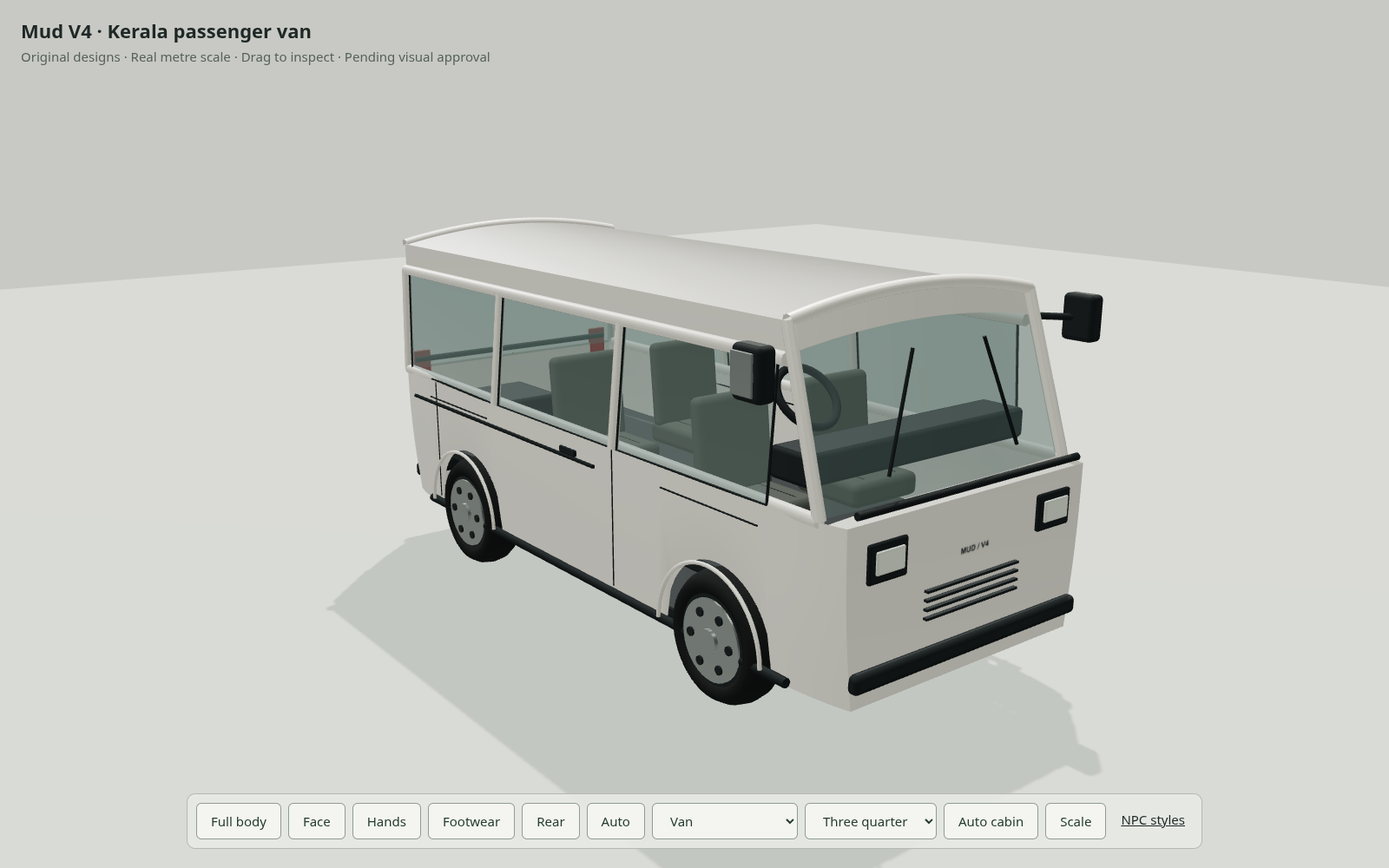
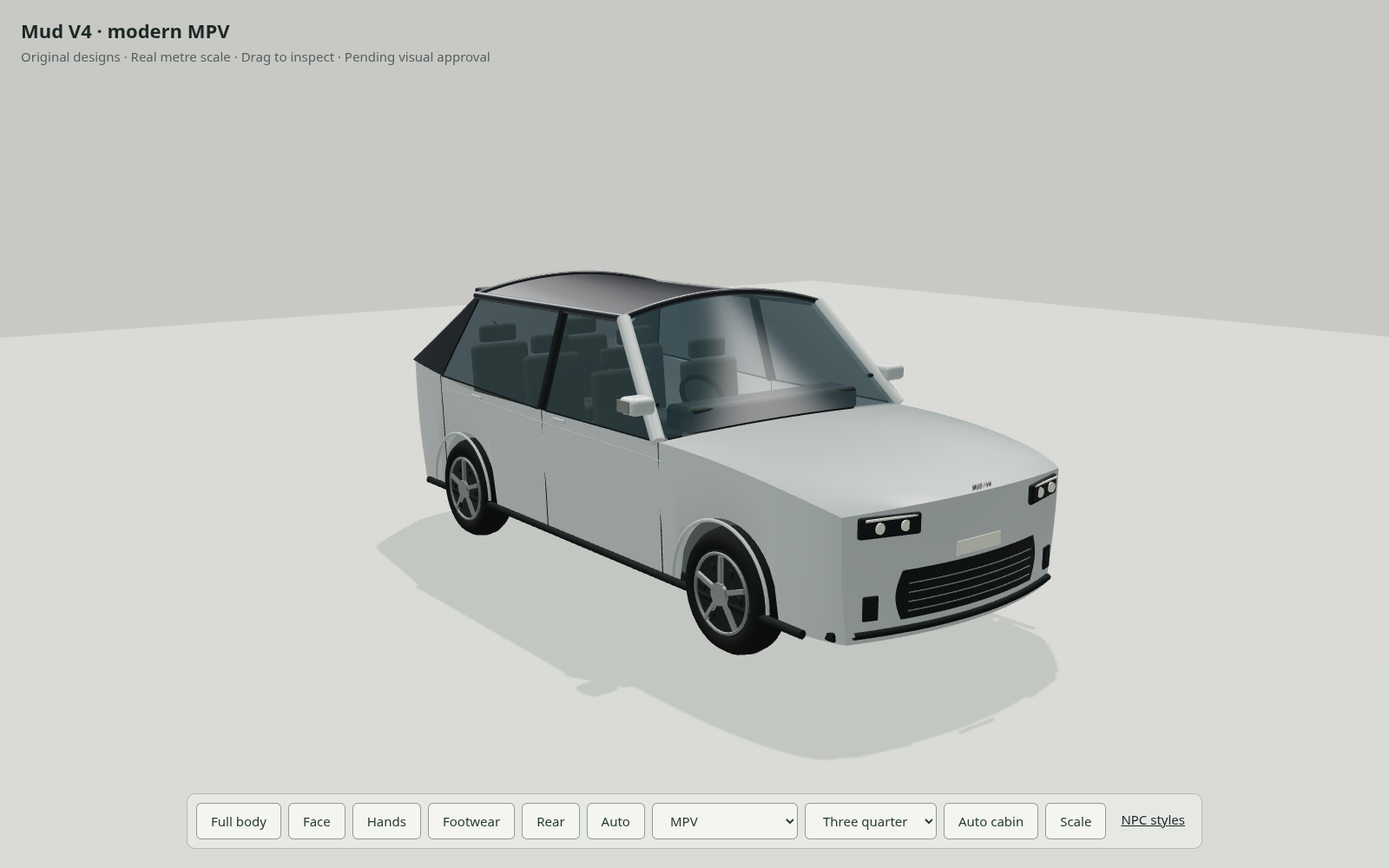
Revise fleet prototypes with modern bodies lighting glazing and wheels

Changed region(s): [[0.2812, 0.248, 0.8125, 0.837], [0.0625, 0.031, 0.2188, 0.062], [0.4688, 0.93, 0.5, 0.961]]

diff --git a/src/prototypes/vehicles.js b/src/prototypes/vehicles.js
@@ -5,10 +5,10 @@ import {RoundedBoxGeometry} from 'three/addons/geometries/RoundedBoxGeometry.js'
 function kit(name,color){
  const root=new THREE.Group();root.name=name;
  const paint=new THREE.MeshPhysicalMaterial({color,roughness:.38,metalness:.22,clearcoat:.35,side:THREE.DoubleSide});paint.userData.surface='paint';
- const trim=new THREE.MeshStandardMaterial({color:'#252c2c',roughness:.72,metalness:.15});
+ const trim=new THREE.MeshStandardMaterial({color:'#252c2c',roughness:.72,metalness:.15,side:THREE.DoubleSide});
  const rubber=new THREE.MeshStandardMaterial({color:'#202322',roughness:.94});
  const alloy=new THREE.MeshStandardMaterial({color:'#9ba29c',roughness:.28,metalness:.85});
- const glass=new THREE.MeshPhysicalMaterial({color:'#718982',roughness:.07,metalness:0,transparent:true,opacity:.43,depthWrite:false,side:THREE.DoubleSide,envMapIntensity:1.3});
+ const glass=new THREE.MeshPhysicalMaterial({color:'#30474e',roughness:.10,metalness:0,transparent:true,opacity:.64,depthWrite:false,side:THREE.DoubleSide,envMapIntensity:1.3});
  const seat=new THREE.MeshStandardMaterial({color:'#535750',roughness:.93});seat.userData.surface='cloth';
  const red=new THREE.MeshPhysicalMaterial({color:'#9b3028',roughness:.23,clearcoat:.6});
  const lamp=new THREE.MeshPhysicalMaterial({color:'#d3dacb',roughness:.18,metalness:.25,clearcoat:.6});
@@ -25,7 +25,8 @@ function kit(name,color){
   add(tyre,rubber,[0,0,0],[0,Math.PI/2,0],axle);
   add(new THREE.CylinderGeometry(r*.68,r*.68,width,40),trim,[0,0,0],[0,0,Math.PI/2],axle);
   for(const side of[-1,1]){
-   add(new THREE.CylinderGeometry(r*.62,r*.62,.012,40),alloy,[side*(width/2+.004),0,0],[0,0,Math.PI/2],axle);
+   if(r>.4)add(new THREE.CylinderGeometry(r*.62,r*.62,.012,40),alloy,[side*(width/2+.004),0,0],[0,0,Math.PI/2],axle);
+   else{add(new THREE.TorusGeometry(r*.62,.009,8,40),alloy,[side*(width/2+.008),0,0],[0,Math.PI/2,0],axle);for(let i=0;i<5;i++){const a=i*Math.PI*2/5;box(.022,r*.47,.027,.004,alloy,[side*(width/2+.010),Math.cos(a)*r*.36,Math.sin(a)*r*.36],[a,0,0],axle);}}
    add(new THREE.TorusGeometry(r*.84,.006,6,48),rubber,[side*width*.48,0,0],[0,Math.PI/2,0],axle);
    for(let i=0;i<6;i++){const a=i*Math.PI/3;add(new THREE.CylinderGeometry(r*.07,r*.07,.015,12),trim,[side*(width/2+.013),Math.sin(a)*r*.43,Math.cos(a)*r*.43],[0,0,Math.PI/2],axle);}
    add(new THREE.CylinderGeometry(r*.18,r*.18,.02,24),alloy,[side*(width/2+.018),0,0],[0,0,Math.PI/2],axle);
@@ -39,16 +40,16 @@ function kit(name,color){
 
 function fourWheeler(type){
  const bus=type==='bus',van=type==='van';
- const k=kit(bus?'Mud M9 · local bus':van?'Mud V4 · Kerala passenger van':'Mud C4 · Kerala hatchback',bus?'#d8cfac':van?'#e4e2d6':'#b4c5cb');
+ const k=kit(bus?'Mud M9 · modern city bus':van?'Mud V4 · modern MPV':'Mud C4 · modern hatchback',bus?'#e5e9e6':van?'#b8c2c0':'#37799b');
  const {root,paint,trim,rubber,alloy,glass,seat,red,lamp,box,tube,surface,pane,wheel,cushion,badge}=k;
- const length=bus?9.70:van?3.78:3.65,width=bus?2.5:van?1.60:1.62,height=bus?3.1:van?1.87:1.54;
- const half=length/2,r=bus?.48:van?.31:.29,axles=bus?[-2.98,2.62]:van?[-1.12,1.12]:[-1.16,1.15],waist=bus?1.68:van?1.04:.91,base=bus?.49:.265;
- const bodyWidth=z=>width/2*(bus?1-.035*(Math.abs(z)/half)**8:van?1-.08*(Math.abs(z)/half)**8:1-(z<0?.12:.06)*(Math.abs(z)/half)**6);
- const deckHeight=z=>bus||van?waist:z<-.85?waist-.15*((-.85-z)/(half-.85))**2:z>1.20?waist+.10*(z-1.20)/(half-1.20):waist;
- const busSkirt=new THREE.MeshPhysicalMaterial({color:'#85382f',roughness:.5,metalness:.12,side:THREE.DoubleSide});
+ const length=bus?9.70:van?4.45:3.85,width=bus?2.5:van?1.80:1.72,height=bus?3.1:van?1.72:1.54;
+ const half=length/2,r=bus?.48:van?.33:.31,axles=bus?[-2.98,2.62]:van?[-1.35,1.35]:[-1.21,1.20],waist=bus?1.68:van?1.06:1.00,base=bus?.49:.265;
+ const bodyWidth=z=>width/2*(bus?1-.035*(Math.abs(z)/half)**8:1-(z<0?.12:.06)*(Math.abs(z)/half)**6);
+ const deckHeight=z=>bus?waist:z<-.85?waist-.15*((-.85-z)/(half-.85))**2:z>1.20?waist+.10*(z-1.20)/(half-1.20):waist;
+ const busSkirt=new THREE.MeshPhysicalMaterial({color:'#277675',roughness:.5,metalness:.12,side:THREE.DoubleSide});
  function archLow(z){let low=base;for(const axle of axles){const d=z-axle,clearance=r+.045;if(Math.abs(d)<clearance)low=Math.max(low,r+.015+Math.sqrt(clearance**2-d*d));}return low;}
  for(const side of[-1,1]){
-  const sidePoint=(u,v)=>{const z=-half+u*length,low=archLow(z);return[side*(bodyWidth(z)-.05*(1-v)+.014*Math.sin(v*Math.PI)),low+(deckHeight(z)-(!bus&&!van?.025:0)-low)*v,z];};
+  const sidePoint=(u,v)=>{const z=-half+u*length,low=archLow(z);return[side*(bodyWidth(z)-.05*(1-v)+.014*Math.sin(v*Math.PI)),low+(deckHeight(z)-(!bus?.025:0)-low)*v,z-(bus?0:Math.sign(z)*.13*(Math.abs(z)/half)**8)];};
   const hasSide=u=>!(bus&&side===-1&&(-half+u*length)>-4.45&&(-half+u*length)<-3.65);
   surface(12,bus?240:120,sidePoint,paint,(u,v)=>hasSide(u)&&(!bus||v>=.4));
   if(bus)surface(12,240,sidePoint,busSkirt,(u,v)=>hasSide(u)&&v<.4);
@@ -57,43 +58,64 @@ function fourWheeler(type){
  }
  // Formed bumper faces close only the lower body, leaving the windows genuinely open.
  for(const end of[-1,1]){
-  const endPoint=(u,v)=>{const t=u*2-1;return[t*(bodyWidth(half)-.05*(1-v)+.014*Math.sin(v*Math.PI)),base+v*(deckHeight(end*half)-(!bus&&!van?.025*t*t:0)-base),end*half];};
+  const endPoint=(u,v)=>{const t=u*2-1;return[t*(bodyWidth(end*half)-.05*(1-v)+.014*Math.sin(v*Math.PI)),base+v*(deckHeight(end*half)-(!bus?.025*t*t:0)-base),end*(half-(bus?0:.13*t*t))];};
   surface(12,40,endPoint,paint,(_,v)=>!bus||v>=.4);
   if(bus)surface(12,40,endPoint,busSkirt,(_,v)=>v<.4);
-  box(width*.88,.085,.06,.025,trim,[0,base+.12,end*(half+.014)]);
+  if(bus)box(width*.88,.085,.06,.025,trim,[0,base+.12,end*(half+.014)]);
  }
  box(width*.87,.05,length-.35,.012,trim,[0,base+.03,0]);
- if(!bus&&!van){
-  // Short bonnet and an upright tailgate: a small Kerala-road hatchback, not a sedan.
-  surface(20,40,(u,v)=>{const z=-half+v*(half-.85),t=u*2-1;return[t*bodyWidth(z),deckHeight(z)-.025*t*t,z];},paint);
-  const roofPoint=(u,v)=>{const t=u*2-1;return[t*.665,1.44+.10*(1-t*t)-.012*Math.sin(v*Math.PI),-.30+v*1.43];};
-  surface(24,40,roofPoint,paint);
-  surface(20,40,(u,v)=>{const t=u*2-1;return[t*(bodyWidth(-.85)*(1-v)+.665*v),.92+v*(.62-.10*t*t)-.025*(1-v)*t*t,-.85+v*.55];},glass);
-  surface(22,40,(u,v)=>{const t=u*2-1;return[t*(.665*(1-v)+bodyWidth(half)*v),1.44+.10*(1-t*t)-v*(.43+.10*(1-t*t)+.025*t*t),1.13+v*(half-1.13)];},glass);
-  for(const v of[0,1])tube(Array.from({length:25},(_,i)=>roofPoint(i/24,v)),.022,paint);
+ if(!bus){
+  // A shared rounded body construction for the hatchback and taller three-row MPV.
+  const roofEdge=height-.10,roofHalf=width*.405,roofRear=van?1.38:1.13,quarterBottom=van?1.60:1.32;
+  const darkRoof=new THREE.MeshPhysicalMaterial({color:'#202a30',roughness:.35,metalness:.25,clearcoat:.4,side:THREE.DoubleSide});
+  const faceZ=(x,y,end)=>{const v=THREE.MathUtils.clamp((y-base)/(deckHeight(end*half)-base),0,1),w=bodyWidth(end*half)-.05*(1-v)+.014*Math.sin(v*Math.PI);return end*(half-.13*(x/w)**2);};
+  const noseZ=(x,y=waist-.235)=>faceZ(x,y,-1);
+  surface(20,40,(u,v)=>{const z=-half+v*(half-.85),t=u*2-1;return[t*bodyWidth(z),deckHeight(z)-.025*t*t+.035*t*t*(1-t*t)*Math.sin(v*Math.PI),z+ .13*t*t*(Math.abs(z)/half)**8];},paint);
+  const roofPoint=(u,v)=>{const t=u*2-1;return[t*roofHalf,roofEdge+.10*(1-t*t)-.012*Math.sin(v*Math.PI),-.30+v*(roofRear+.30)];};
+  surface(24,40,roofPoint,darkRoof);
+  surface(20,40,(u,v)=>{const t=u*2-1;return[t*(bodyWidth(-.85)*(1-v)+roofHalf*v),waist+.01+v*(height-waist-.01-.10*t*t)-.025*(1-v)*t*t,-.85+v*.55];},glass);
+  surface(22,40,(u,v)=>{const t=u*2-1;return[t*(roofHalf*(1-v)+bodyWidth(half)*v),roofEdge+.10*(1-t*t)-v*(roofEdge-deckHeight(half)+.10*(1-t*t)+.025*t*t),roofRear+v*(half-.13*t*t-roofRear)];},glass);
+  for(const v of[0,1])tube(Array.from({length:25},(_,i)=>roofPoint(i/24,v)),.022,darkRoof);
   for(const side of[-1,1]){
-   const lower=z=>[side*bodyWidth(z),deckHeight(z)-.023,z],upper=z=>[side*.665,1.438,z];
+   const lower=z=>[side*bodyWidth(z),deckHeight(z)-.023,z],upper=z=>[side*roofHalf,roofEdge-.002,z];
    pane([lower(-.83),lower(.27),upper(.27),upper(-.295)]);
-   pane([lower(.35),lower(1.32),upper(1.08),upper(.35)]);
-   tube([lower(-.85),upper(-.30)],.031,paint);tube([lower(.31),upper(.31)],.030,trim);
-   tube([upper(-.30),upper(1.13)],.026,paint);
-   surface(20,8,(u,v)=>{const z=(1-v)*(1.08+.05*u)+v*(1.32+(half-1.32)*u);return[side*(.665*(1-v)+bodyWidth(z)*v),1.438*(1-v)+(deckHeight(z)-.023)*v,z];},paint);
-   for(const z of[-.85,.31,1.34])tube([[side*(bodyWidth(z)+.001),deckHeight(z)-.025,z],[side*(bodyWidth(z)-.025),.32,z]],.0025,trim);
-   for(const z of[.10,1.09])box(.020,.029,.11,.009,trim,[side*(bodyWidth(z)+.012),.83,z]);
-   tube([[side*.79,1.04,-.70],[side*.91,1.04,-.70]],.014,trim);box(.15,.095,.15,.032,paint,[side*.94,1.055,-.72]);box(.008,.066,.11,.020,alloy,[side*1.018,1.055,-.704]);
-   for(const z of[.10,.97]){cushion(side*.32,.65,z,.43);box(.28,.12,.06,.025,seat,[side*.32,1.23,z+.21]);}
-   tube([[side*(bodyWidth(-.90)+.005),.55,-.90],[side*(bodyWidth(.3)+.005),.55,.30],[side*(bodyWidth(1.47)+.005),.55,1.47]],.010,trim);
+   pane([lower(.35),lower(quarterBottom),upper(roofRear-.05),upper(.35)]);
+   tube([lower(-.85),upper(-.30)],.040,paint);tube([lower(.31),upper(.31)],.030,trim);
+   tube([upper(-.30),upper(roofRear)],.026,darkRoof);
+   surface(20,8,(u,v)=>{const z=(1-v)*(roofRear-.05+.05*u)+v*(quarterBottom+(half-.13-quarterBottom)*u);return[side*(roofHalf*(1-v)+bodyWidth(z)*v),(roofEdge-.002)*(1-v)+(deckHeight(z)-.023)*v,z];},darkRoof);
+   for(const z of[-.85,.31,quarterBottom+.02])tube([[side*(bodyWidth(z)+.001),deckHeight(z)-.025,z],[side*(bodyWidth(z)-.025),.32,z]],.0025,trim);
+   for(const z of[.10,1.09])box( .015,.024,.13,.008,paint,[side*(bodyWidth(z)+.012),waist-.055,z]);
+   tube([[side*.79,waist+.14,-.70],[side*.91,waist+.14,-.70]],.014,trim);box(.15,.095,.15,.032,paint,[side*.94,waist+.155,-.72]);box(.008,.066,.11,.020,alloy,[side*1.018,waist+.155,-.704]);
+   for(const z of(van?[.10,.91,1.61]:[.10,.97])){cushion(side*.34,van?.72:.65,z,.43);box(.28,.12,.06,.025,seat,[side*.34,van?1.30:1.23,z+.21]);}
+   tube([[side*(bodyWidth(-.90)+.003),waist-.12,-.90],[side*(bodyWidth(.3)+.003),waist-.10,.30],[side*(bodyWidth(quarterBottom)+.003),waist-.06,quarterBottom]],.0025,paint);
   }
-  box(1.26,.14,.24,.035,trim,[0,.95,-.66]);
-  k.add(new THREE.TorusGeometry(.13,.015,8,40),trim,[.34,1.035,-.51],[.72,0,0]);
-  for(const side of[-1,1]){box(.30,.15,.035,.042,trim,[side*.53,.665,-half-.010],[0,-side*.15,0]);box(.24,.105,.017,.031,lamp,[side*.53,.674,-half-.029],[0,-side*.15,0]);box(.13,.32,.024,.029,red,[side*.69,.92,half+.008]);}
-  box(.82,.12,.03,.026,trim,[0,.38,-half-.014]);for(const y of[.36,.40])box(.68,.007,.006,.001,alloy,[0,y,-half-.032]);
-  box(.32,.075,.011,.009,lamp,[0,.55,-half-.018]);badge('MUD / C4',.24,.058,[0,.83,-half-.013]);
-  tube([[0,1.03,half+.008],[.24,1.20,half-.17]],.006,trim);
+  box(1.26,.14,.24,.035,trim,[0,waist+.035,-.66]);
+  k.add(new THREE.TorusGeometry(.13,.015,8,40),trim,[.34,waist+.115,-.51],[.72,0,0]);
+  for(const side of[-1,1]){
+   const x=side*.56,z=noseZ(x);
+   box(.33,.105,.028,.031,trim,[x,waist-.235,z-.012],[0,-side*.28,0]);
+   tube([[x-side*.135,waist-.196,noseZ(x-side*.135)-.031],[x+side*.135,waist-.196,noseZ(x+side*.135)-.031]],.007,lamp);
+   for(const dx of[-.07,.065])k.add(new THREE.CylinderGeometry(.027,.027,.010,24),lamp,[x+dx,waist-.237,noseZ(x+dx)-.032],[Math.PI/2,0,0]);
+   box(.08,.12,.016,.027,trim,[side*.65,.44,noseZ(side*.65)-.015],[0,-side*.32,0]);
+   const tailY=deckHeight(half)-.09,tailZ=faceZ(side*.58,tailY,1);
+   box(.31,.14,.018,.032,trim,[side*.58,tailY,tailZ+.009],[0,side*.26,0]);
+   box(.27,.049,.014,.018,red,[side*.58,tailY-.023,tailZ+.025],[0,side*.26,0]);
+   tube([[side*.44,tailY+.04,faceZ(side*.44,tailY+.04,1)+.025],[side*.70,tailY+.04,faceZ(side*.70,tailY+.04,1)+.025]],.008,red);
+
+  }
+  surface(12,32,(u,v)=>{const x=(u*2-1)*(.48+.035*Math.sin(v*Math.PI));return[x,.36+v*.24,noseZ(x,.36+v*.24)-.014];},trim);
+  for(let y=.40;y<.58;y+=.045)tube(Array.from({length:17},(_,i)=>{const x=(i/8-1)*.45;return[x,y,noseZ(x,y)-.022];}),.003,alloy);
+  tube(Array.from({length:25},(_,i)=>{const x=(i/12-1)*.72;return[x,.31,noseZ(x,.31)-.014];}),.018,trim);
+  box(.32,.075,.011,.009,lamp,[0,.655,-half-.012]);badge(van?'MUD / V4':'MUD / C4',.24,.058,[0,waist-.12,-half-.011]);
+  surface(8,32,(u,v)=>{const x=(u*2-1)*width*.43,y=.32+v*.14;return[x,y,faceZ(x,y,1)+.012];},trim);
+  box(.33,.085,.009,.010,lamp,[0,.72,half+.013]);
+  tube([[-.14,.85,half+.014],[.14,.85,half+.014]],.009,trim);
+  tube([[0,deckHeight(half)+.035,half+.004],[.24,deckHeight(half)+.19,half-.17]],.006,trim);
+  box(roofHalf*1.85,.035,.12,.012,darkRoof,[0,roofEdge+.02,roofRear+.07]);
  }else{
   const top=bus?2.97:1.79,roofHalf=bus?1.17:.735,frontTop=bus?-half+.15:-1.53,frontBottom=bus?-half:-1.76;
-  const roofPaint=bus?busSkirt:paint;const windowTop=bus?2.72:1.64;
-  surface(bus?60:32,40,(u,v)=>{const t=u*2-1,z=frontTop+v*(half-.06-frontTop);return[t*roofHalf,top+(height-top)*(1-t*t),z];},roofPaint);
+  const roofPaint=trim;const windowTop=bus?2.72:1.64;
+  surface(bus?60:32,40,(u,v)=>{const t=u*2-1,z=frontTop+v*(half-.06-frontTop);return[t*roofHalf,top+(height-top)*(1-t*t),z];},paint);
   surface(24,44,(u,v)=>{const t=u*2-1;return[t*((bodyWidth(frontBottom)-.006)*(1-v)+roofHalf*v),waist+v*(top-waist+(height-top)*(1-t*t)),frontBottom+v*(frontTop-frontBottom)+.015*t*t];},glass,(_,v)=>v<(bus?.82:.84));
   surface(24,44,(u,v)=>{const t=u*2-1;return[t*((bodyWidth(frontBottom)-.006)*(1-v)+roofHalf*v),waist+v*(top-waist+(height-top)*(1-t*t)),frontBottom+v*(frontTop-frontBottom)+.015*t*t];},roofPaint,(_,v)=>v>=(bus?.82:.84));
   surface(20,40,(u,v)=>{const t=u*2-1;return[t*((bodyWidth(half)-.006)*(1-v)+roofHalf*v),waist+v*(top-waist+(height-top)*(1-t*t)),half-.06];},glass);
@@ -102,7 +124,7 @@ function fourWheeler(type){
    tube([lower(frontBottom),[side*roofHalf,top,frontTop]],.028,roofPaint);tube([lower(half-.03),upper(half-.06)],.029,roofPaint);
    tube([upper(frontTop),upper(half-.06)],.030,roofPaint);tube([lower(frontBottom),lower(half-.03)],.030,roofPaint);
    surface(8,80,(u,v)=>[side*roofHalf,windowTop+v*(top-windowTop),frontTop+u*(half-.06-frontTop)],roofPaint);
-   const count=bus?10:3,start=bus?frontTop:-1.51,end=half-.07,step=(end-start)/count;
+   const count=bus?6:3,start=bus?frontTop:-1.51,end=half-.07,step=(end-start)/count;
    for(let i=0;i<count;i++){const a=start+i*step+.03,b=start+(i+1)*step-.03;pane([lower(a),lower(b),upper(b),upper(a)]);if(i)tube([lower(a-.03),upper(a-.03)],.027,roofPaint);}
    for(const z of axles)tube([[side*(width/2+.007),waist-.09,z-.33],[side*(width/2+.007),waist-.09,z+.33]],.004,trim);
    // India-style right-hand driver position; mirror arms remain outside the glazing.
@@ -116,25 +138,19 @@ function fourWheeler(type){
    tube([[-bodyWidth(half)+.05,waist+.04,end*half],[bodyWidth(half)-.05,waist+.04,end*half]],.018,trim);
   }
   if(bus){
+   box(1.54,.20,.025,.018,trim,[0,1.24,-half-.014]);
+   box(1.65,.16,1.56,.06,paint,[0,3.12,.7]);
    box(2.19,.08,8.68,.012,trim,[0,.89,.15]);
    for(let z=-2.72;z<4.12;z+=.79)for(const x of[-.82,-.33,.33,.82]){cushion(x,1.24,z,.43);tube([[x,1.0,z],[x,1.22,z]],.016,alloy);}
    // A glass passenger door replaces the side shell in its opening.
    const x=-width/2-.004;pane([[x,.61,-4.45],[x,.61,-3.65],[x,2.83,-3.65],[x,2.83,-4.45]]);tube([[x,.61,-4.05],[x,2.83,-4.05]],.018,trim);
    for(let i=0;i<3;i++)box(.53,.075,.63,.012,trim,[-1.00,.40+i*.18,-4.05]);
    for(const z of[-3.30,3.42])tube([[.08,.92,z],[.08,2.84,z]],.017,alloy);
-   for(const side of[-1,1]){box(.37,.21,.032,.025,trim,[side*.80,1.19,-half-.022]);for(const dx of[-.087,.087])box(.13,.09,.014,.014,lamp,[side*.80+dx,1.22,-half-.048]);box(.19,.27,.028,.025,red,[side*.98,1.18,half+.01]);}
+   for(const side of[-1,1]){box(.36,.12,.032,.033,trim,[side*.80,1.19,-half-.022]);box(.29,.027,.014,.009,lamp,[side*.80,1.23,-half-.048]);box(.29,.047,.014,.012,lamp,[side*.80,1.16,-half-.048]);box(.19,.27,.028,.025,red,[side*.98,1.18,half+.01]);}
    box(1.46,.24,.03,.020,trim,[0,2.91,-half+.101]);badge('കൊച്ചി • ആലുവ',1.31,.15,[0,2.91,-half+.08],[0,Math.PI,0],'#192822');
-   badge('MUD LOCAL',1.16,.18,[0,1.46,-half-.008]);
-   for(const side of[-1,1])badge('മഡ് • ലോക്കൽ',2.05,.27,[side*(width/2+.02),1.38,.1],[0,side*Math.PI/2,0]);
+   badge('MUD CITY',1.16,.18,[0,1.46,-half-.008]);
+   for(const side of[-1,1])badge('മഡ് • സിറ്റി',2.05,.27,[side*(width/2+.02),1.38,.1],[0,side*Math.PI/2,0]);
    for(let i=0;i<9;i++)box(.70,.02,.012,.003,trim,[0,.93+i*.033,half+.028]);
-  }else{
-   // Small bonnet, cargo floor and twin rear doors distinguish it from the compact car.
-   surface(8,32,(u,v)=>{const z=-half+v*(half-1.76),t=u*2-1;return[t*bodyWidth(z),waist-.025*t*t,z];},paint);
-   box(1.40,.065,3.10,.012,trim,[0,.59,.30]);box(.48,.31,.46,.025,trim,[.36,.77,1.38]);
-   for(const side of[-1,1]){box(.22,.17,.023,.021,trim,[side*.52,.87,-half-.01]);box(.16,.10,.014,.020,lamp,[side*.52,.875,-half-.028]);box(.12,.35,.025,.024,red,[side*.64,.96,half+.008]);}
-   tube([[0,.35,half+.012],[0,waist,half+.012]],.005,trim);box(.42,.08,.021,.012,trim,[0,.68,half+.022]);
-   for(const y of[.56,.60,.64,.68])box(.58,.012,.023,.003,trim,[0,y,-half-.015]);
-   badge('MUD / V4',.31,.066,[0,.81,-half-.016]);
   }
   box(van?1.35:2.13,.14,.24,.022,trim,[0,waist+.14,frontBottom+.28]);
   k.add(new THREE.TorusGeometry(bus?.20:.15,.018,8,40),trim,[bus?.66:.38,waist+.35,frontBottom+.49],[.74,0,0]);
@@ -145,7 +161,7 @@ function fourWheeler(type){
 }
 
 function deliveryBike(){
- const k=kit('Mud D2 · Kerala commuter scooter','#697e85'),{root,paint,trim,alloy,rubber,seat,red,lamp,box,tube,surface,wheel,badge}=k;
+ const k=kit('Mud D2 · modern delivery scooter','#536f83'),{root,paint,trim,alloy,rubber,seat,red,lamp,box,tube,surface,wheel,badge}=k;
  const r=.24;wheel(0,-.71,r,.11);wheel(0,.63,r,.13);
  for(const side of[-1,1]){
   tube([[side*.10,.27,-.70],[side*.11,.69,-.57],[side*.12,.94,-.61]],.021,alloy);
@@ -164,7 +180,7 @@ function deliveryBike(){
  box(.40,.12,.67,.05,seat,[0,.718,.215]);
  tube([[-.29,1.00,-.55],[0,1.05,-.60],[.29,1.00,-.55]],.019,trim);
  for(const side of[-1,1]){tube([[side*.26,1.0,-.56],[side*.34,.98,-.53]],.023,rubber);tube([[side*.24,1.025,-.57],[side*.34,1.19,-.62]],.008,alloy);box(.075,.09,.021,.024,trim,[side*.34,1.20,-.62]);box(.065,.075,.005,.020,alloy,[side*.34,1.20,-.603]);}
- box(.34,.13,.14,.04,paint,[0,1.00,-.625]);box(.24,.075,.008,.027,lamp,[0,1.012,-.704]);box(.11,.08,.022,.012,red,[0,.65,.911]);
+ box(.34,.13,.14,.04,trim,[0,1.00,-.625]);box(.25,.035,.008,.012,lamp,[0,1.012,-.704]);box(.17,.033,.022,.012,red,[0,.65,.911]);
  surface(10,36,(u,v)=>{const a=u*Math.PI;return[(v-.5)*.17,.255+.273*Math.sin(a),-.71+.273*Math.cos(a)];},paint).material.side=THREE.DoubleSide;
  surface(10,36,(u,v)=>{const a=u*Math.PI;return[(v-.5)*.17,.255+.280*Math.sin(a),.63+.280*Math.cos(a)];},trim).material.side=THREE.DoubleSide;
  box(.16,.13,.42,.043,trim,[-.16,.29,.52]);box(.09,.10,.39,.025,alloy,[.20,.30,.59]);

diff --git a/review.html b/review.html
@@ -3,4 +3,4 @@
 *{box-sizing:border-box}body{margin:0;background:#c8c9c4;color:#1e2826;font:15px system-ui}canvas{width:100vw;height:100vh;display:block}header{position:fixed;top:20px;left:24px;pointer-events:none}h1{font-size:22px;margin:0 0 5px}header p{margin:0;color:#56615c}nav{position:fixed;bottom:22px;left:50%;transform:translateX(-50%);display:flex;gap:8px;background:#e7e9e4eb;border:1px solid #b4bab2;padding:10px;border-radius:10px}button,select{font:inherit;padding:9px 16px;border:1px solid #919c93;border-radius:6px;background:#f4f5f0;color:#263b30;cursor:pointer;white-space:nowrap}button.active{background:#294e3b;color:white}#loading{position:fixed;top:50%;width:100%;text-align:center}a{color:inherit}@media(max-width:600px){header{left:14px;top:12px}h1{font-size:17px}nav{gap:4px;padding:7px;bottom:12px}button,select{padding:8px 10px;font-size:12px}}
 nav{max-width:95vw;justify-content:center;flex-wrap:wrap;width:max-content}canvas,button{-webkit-user-select:none;user-select:none;-webkit-touch-callout:none;touch-action:none}#loading.error{background:#fff0e9;color:#822d1b;padding:16px}@media(max-height:650px){nav{bottom:12px;padding:7px;gap:5px}button,select{padding:7px 12px;font-size:12px}header{top:12px}h1{font-size:18px}header p{font-size:12px}}
 button:disabled{cursor:default;opacity:.5}#loading.error{top:50%;left:50%;transform:translate(-50%,-50%);width:min(680px,92vw);max-height:70vh;overflow:auto;text-align:left;border:1px solid #c49f90;border-radius:10px;box-shadow:0 8px 32px #0002}#loading.error p{line-height:1.5}#loading.error a{display:inline-block;margin:4px 12px 0 0;text-decoration:underline}
-</style></head><body><canvas id="review"></canvas><header><h1>Textured human · Visual review</h1><p>1.75 m customer prototype · Drag to rotate · Pinch or scroll to zoom</p></header><nav><button data-view="person" class="active">Full body</button><button data-view="face">Face</button><button data-view="hands">Hands</button><button data-view="feet">Footwear</button><button data-view="back">Rear</button><button data-view="auto">Auto</button><select id="vehicle-select" aria-label="Vehicle"><option value="auto">Auto</option><option value="car">Car</option><option value="van">Van</option><option value="bus">Bus</option><option value="bike">Delivery scooter</option><option value="fleet">Whole fleet</option></select><select id="vehicle-angle" aria-label="Vehicle angle"><option value="three">Three quarter</option><option value="front">Front</option><option value="side">Side</option><option value="rear">Rear</option></select><button data-view="cabin">Auto cabin</button><button data-view="pair">Scale</button><a href="./crowd.html" style="padding:9px">NPC styles</a></nav><p id="loading">Loading textured human…</p><script type="module" src="./src/prototypes/review.js"></script></body></html>
+</style></head><body><canvas id="review"></canvas><header><h1>Textured human · Visual review</h1><p>1.75 m customer prototype · Drag to rotate · Pinch or scroll to zoom</p></header><nav><button data-view="person" class="active">Full body</button><button data-view="face">Face</button><button data-view="hands">Hands</button><button data-view="feet">Footwear</button><button data-view="back">Rear</button><button data-view="auto">Auto</button><select id="vehicle-select" aria-label="Vehicle"><option value="auto">Auto</option><option value="car">Hatchback</option><option value="van">MPV</option><option value="bus">City bus</option><option value="bike">Delivery scooter</option><option value="fleet">Whole fleet</option></select><select id="vehicle-angle" aria-label="Vehicle angle"><option value="three">Three quarter</option><option value="front">Front</option><option value="side">Side</option><option value="rear">Rear</option></select><button data-view="cabin">Auto cabin</button><button data-view="pair">Scale</button><a href="./crowd.html" style="padding:9px">NPC styles</a></nav><p id="loading">Loading textured human…</p><script type="module" src="./src/prototypes/review.js"></script></body></html>

diff --git a/src/prototypes/auto.js b/src/prototypes/auto.js
@@ -3,7 +3,7 @@ import { RoundedBoxGeometry } from 'three/addons/geometries/RoundedBoxGeometry.j
 
 // Original project-authored geometry and canvas badge; no manufacturer meshes, logos or photos.
 export function buildAuto(){
- const root=new THREE.Group();root.name='Mud C3 · Kerala autorickshaw';
+ const root=new THREE.Group();root.name='Mud C3 · modern Kerala autorickshaw';
  const paint=new THREE.MeshPhysicalMaterial({color:'#d5a62c',metalness:.22,roughness:.42,clearcoat:.32,clearcoatRoughness:.3});
  const frame=new THREE.MeshStandardMaterial({color:'#272a28',metalness:.5,roughness:.44}),rubber=new THREE.MeshStandardMaterial({color:'#191b1a',roughness:.97}),chrome=new THREE.MeshStandardMaterial({color:'#9b9c93',metalness:.9,roughness:.3}),cloth=new THREE.MeshStandardMaterial({color:'#242521',roughness:.98,side:THREE.DoubleSide}),seat=new THREE.MeshStandardMaterial({color:'#322c25',roughness:.87});
  cloth.userData.surface='cloth';seat.userData.surface='cloth';paint.userData.surface='paint';
@@ -51,6 +51,7 @@ export function buildAuto(){
   const housing=box(.238,.119,.022,.032,rubber,[x,.826,z-.004]);housing.rotation.y=yaw;housing.name='C3 headlight housing '+side;
   const reflector=box(.211,.091,.011,.025,chrome,[x,.826,z-.014]);reflector.rotation.y=yaw;
   const lens=box(.205,.085,.010,.024,new THREE.MeshPhysicalMaterial({color:'#d7dfd5',roughness:.15,metalness:.05,clearcoat:.7,transparent:true,opacity:.43,depthWrite:false}),[x,.826,z-.021]);lens.rotation.y=yaw;
+  const drl=box(.185,.013,.008,.006,new THREE.MeshStandardMaterial({color:'#dce8ed',roughness:.22}),[x,.862,z-.029]);drl.rotation.y=yaw;
   for(let y=-.028;y<=.029;y+=.009)tube([[x-.083,.826+y,z-.030-side*.035],[x+.083,.826+y,z-.030+side*.035]],.0008,chrome);
 
  }

diff --git a/docs/prototype-review.md b/docs/prototype-review.md
@@ -54,3 +54,13 @@ Reference pages used for vehicle classes and construction cues (photographs and 
 - [Alappuzha–Erattakulangara private bus photograph](https://commons.wikimedia.org/wiki/File:Alappuzha_-_Erattakulangara_bus_-_Aradhana.jpg), reviewed for regional window/route-board construction.
 
 The resulting meshes are original stylized prototypes, not exact commercial model replicas. This revision does not establish reference-level polish or visual acceptance. The game still retains its prior fleet until the revised models are approved, as required by the user's workflow. Verified geometry, production build, Chromium views and landscape controls; physical mobile performance remains unmeasured.
+
+## Modern fleet revision
+
+Following the request for modern vehicles, the hatchback now has a wider 3.85 × 1.72 × 1.54 m body, higher shoulder line, compound bonnet, rounded nose and bumper corners, contrasting roof and rear pillars, recessed grille, projector-style lamp modules, slim daytime-light elements, open five-spoke alloy wheels, rear spoiler and integrated rear lighting/bumper. The former compact cab-over van is now a 4.45 × 1.80 × 1.72 m three-row MPV using the same formed body construction. The review selector labels it MPV; the existing `view=van` URL remains supported.
+
+The city bus uses fictional white/teal styling, a wider continuous dark window band, modern front light modules and roof-mounted equipment. Its body remains approximately 9.70 × 2.50 × 3.10 m, with roof equipment reaching 3.20 m. The scooter has a slimmer front/rear light design and open alloy wheels. The black-and-yellow auto retains its local three-wheeler construction with an added slim light element in each lamp housing.
+
+Contemporary construction references consulted: [Maruti Suzuki Swift design](https://www.marutisuzuki.com/arena/swift) and the [KSRTC-SWIFT electric-bus tender](https://www.keralartc.com/storage/downloads/Tendernotice_1%2852%29.pdf). These inform vehicle category and general detail choices; no claim is made that the fictional prototypes reproduce either vehicle. Manufacturer assets, badges and real operator liveries are not bundled.
+
+Browser iteration corrected roof material backface culling, front cap/bonnet width mismatch and grille surfaces being occluded by the rounded body. Screenshots include front/side/rear angles, individual models, the full fleet and landscape controls. Geometry checks and the production build pass. Appearance is still awaiting approval; world vehicles and their physics were not replaced in this revision.
